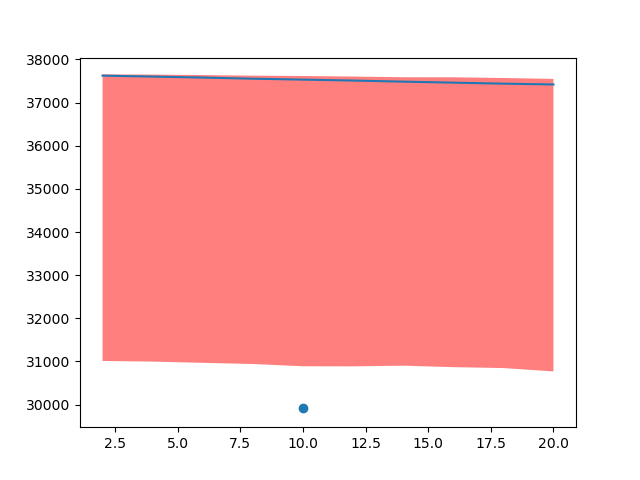
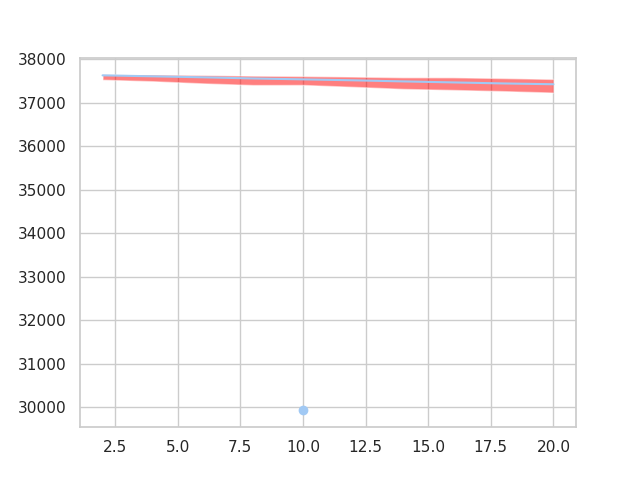
some local, unimportant results

diff --git a/output/plot.py b/output/plot.py
@@ -8,7 +8,7 @@ Created on Fri Oct 11 09:40:13 2019
 import pandas as pd
 import numpy as np
 import matplotlib.pyplot as plt
-
+import seaborn as sns
 """
  Read
 """
@@ -26,6 +26,7 @@ sa_df = pd.read_csv(fname_sa, delim_whitespace=True, header=None, names=colnames
 """
  Get info out
 """
+mc_df = mc_df[mc_df.i != 0]
 number_dams = (2,4,6,8,10,12,14,16,18,20)
 mean_mc = [mc_df[mc_df.ndams == i]['dry_peat_vol'].mean() for i in number_dams]
 max_mc = [mc_df[mc_df.ndams == i]['dry_peat_vol'].max() for i in number_dams]
@@ -44,3 +45,11 @@ ax.scatter(x=10, y=value_sa)
 
 fname_fig = r'results_plot.png'
 plt.savefig(fname_fig)
+
+
+plt.figure()
+sns.set(style="whitegrid", palette="pastel", color_codes=True)
+
+# Draw a nested violinplot and split the violins for easier comparison
+sns.violinplot(x=mc_df.ndams, y=mc_df.dry_peat_vol,  inner="quart")
+sns.despine(left=True)
